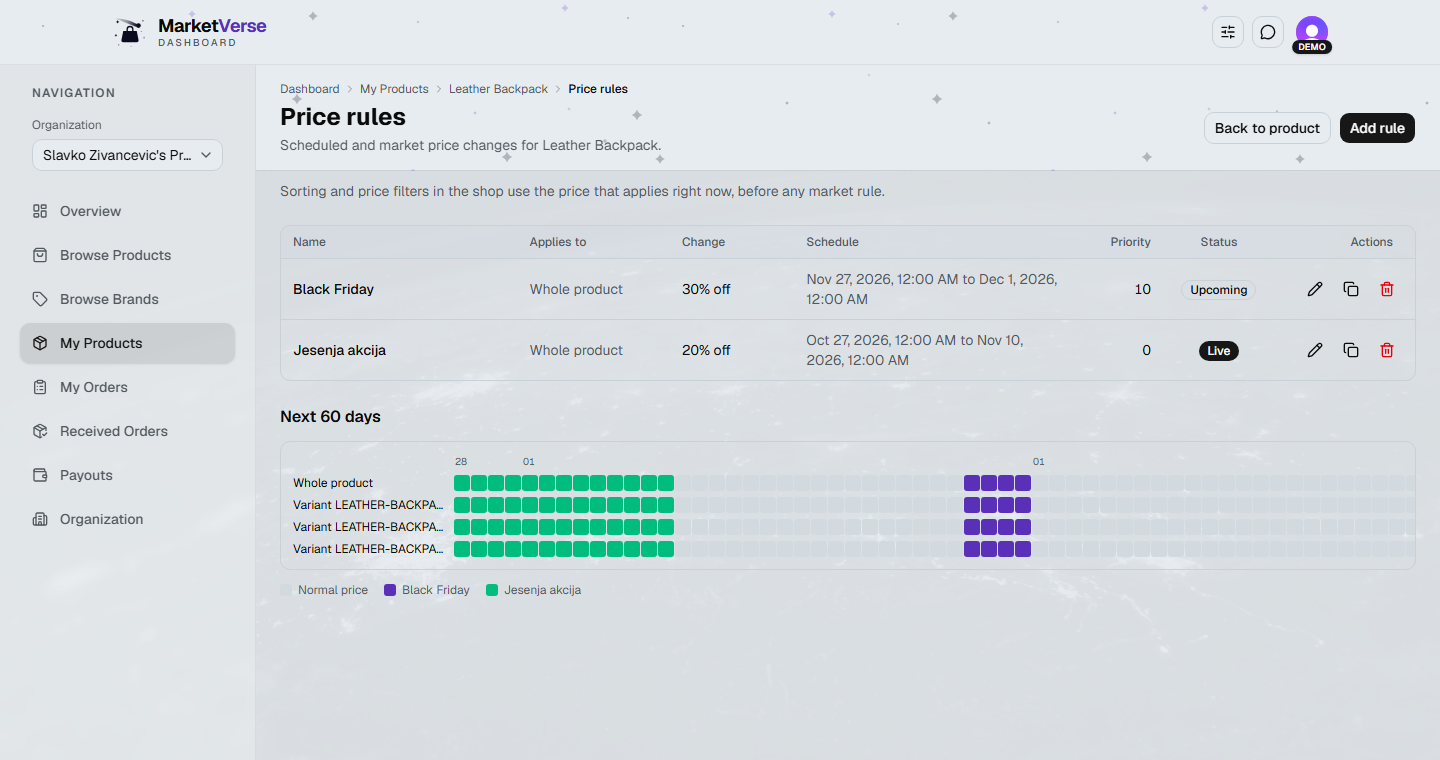
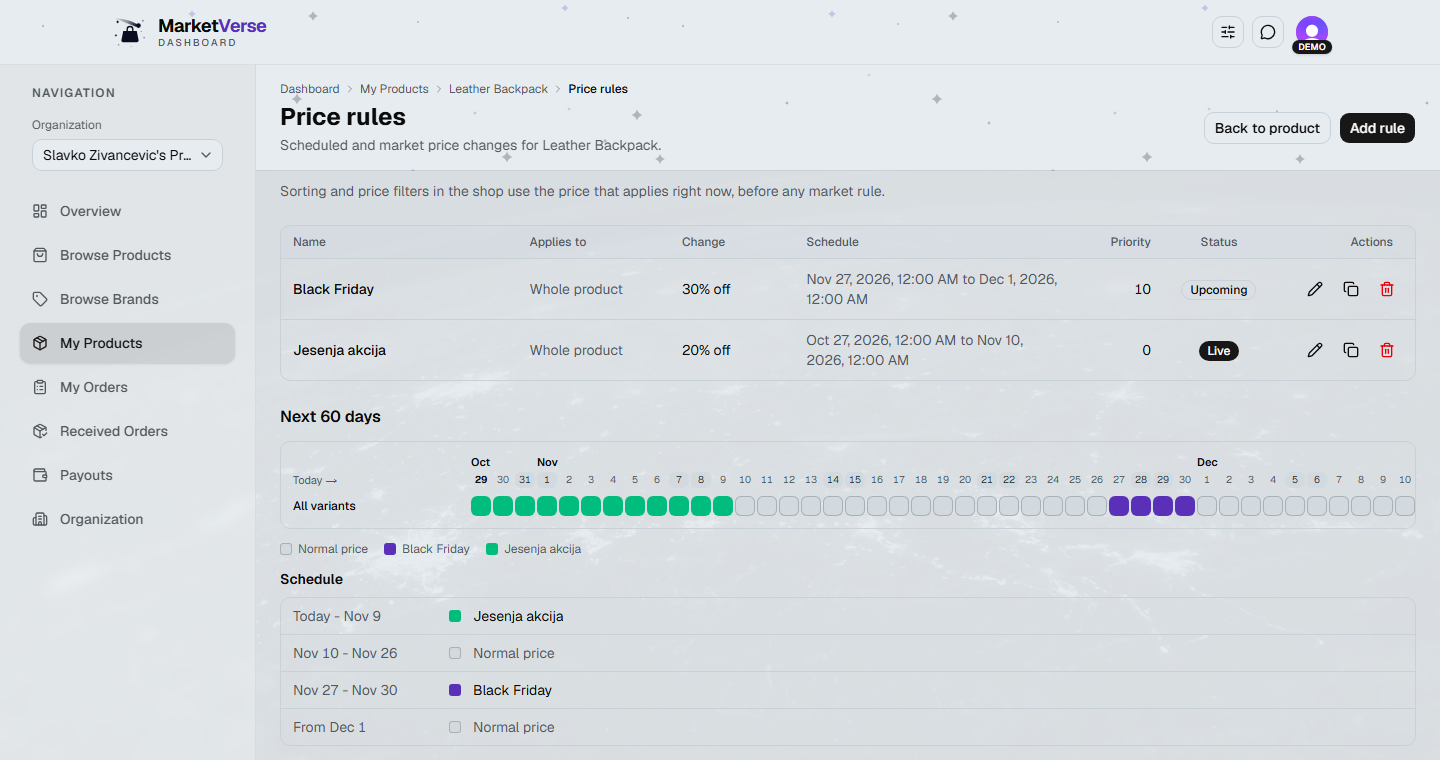
show the readable price calendar

diff --git a/index.html b/index.html
@@ -318,7 +318,7 @@
         </div>
         <figure class="shot">
           <img src="screenshots/09a-pricing.png" alt="Seller price rules with a 60-day calendar" loading="lazy" />
-          <figcaption>Seller view - a scheduled autumn sale and an upcoming Black Friday on one product, 60-day calendar per variant</figcaption>
+          <figcaption>Seller view - an autumn sale running now and Black Friday ahead: a 60-day calendar, and the same schedule in words underneath</figcaption>
         </figure>
         <figure class="shot">
           <img src="screenshots/09c-price-by-country.png" alt="Listing priced for a buyer in Germany" loading="lazy" />
